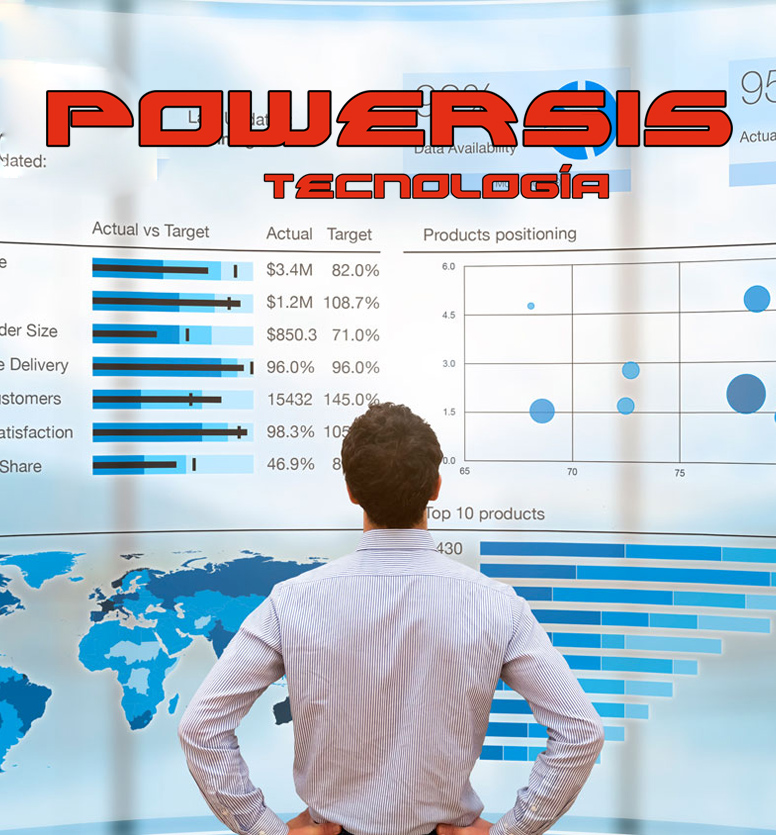
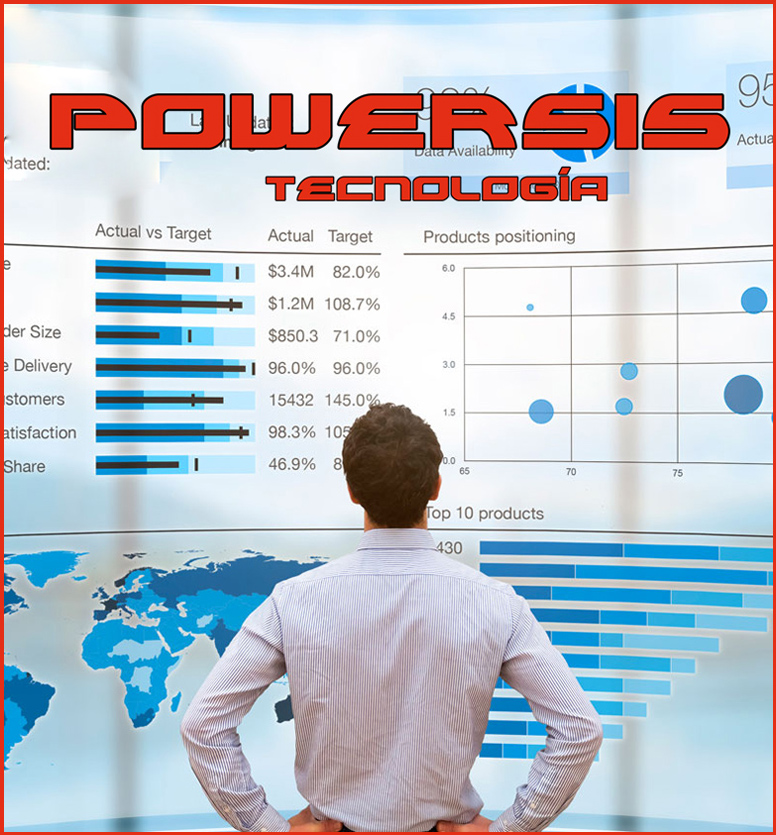
editadas imagenes de cifras, bordes rojos a las ppales

Changed region(s): [[0.0, 0.0, 1.0, 1.0], [0.7732, 0.4359, 0.8351, 0.4982], [0.6186, 0.3737, 0.6495, 0.4048]]

diff --git a/estilos.css b/estilos.css
@@ -256,7 +256,7 @@ h2 {
 
     font-size: 14px;
     color: #fff;
-    background: #2b90d9;
+    background: #282c37;
     padding: 14px 24px;
     text-align: center;
     width: 128px;
@@ -503,7 +503,7 @@ textarea {
 #cifras .cifra {
     font-size: 30px;
     font-weight: bolder;
-    color: rgb(41, 43, 49);
+    color: #2b90d9;
     text-shadow: #2b90d9;
 }
 
